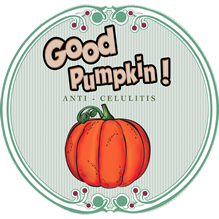
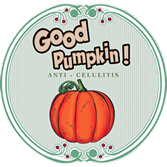
agregando nuevo diseño

diff --git a/app/assets/stylesheets/base.css.scss b/app/assets/stylesheets/base.css.scss
@@ -301,6 +301,10 @@ nav {
     display: inline-table;
     max-height: 219px;
     max-width: 219px;
+    
+    [class*=ff] & {
+      display: inline;
+    }
   }
 }
 
@@ -318,6 +322,10 @@ nav {
     display: inline-table;
     max-height: 167px;
     max-width: 167px;
+    
+    [class*=ff] & {
+      display: inline;
+    }
   }
 }
 
@@ -326,6 +334,10 @@ nav {
     display: inline-table;
     max-height: 136px;
     max-width: 218px;
+    
+    [class*=ff] & {
+      display: inline;
+    }
   }
 }
 
